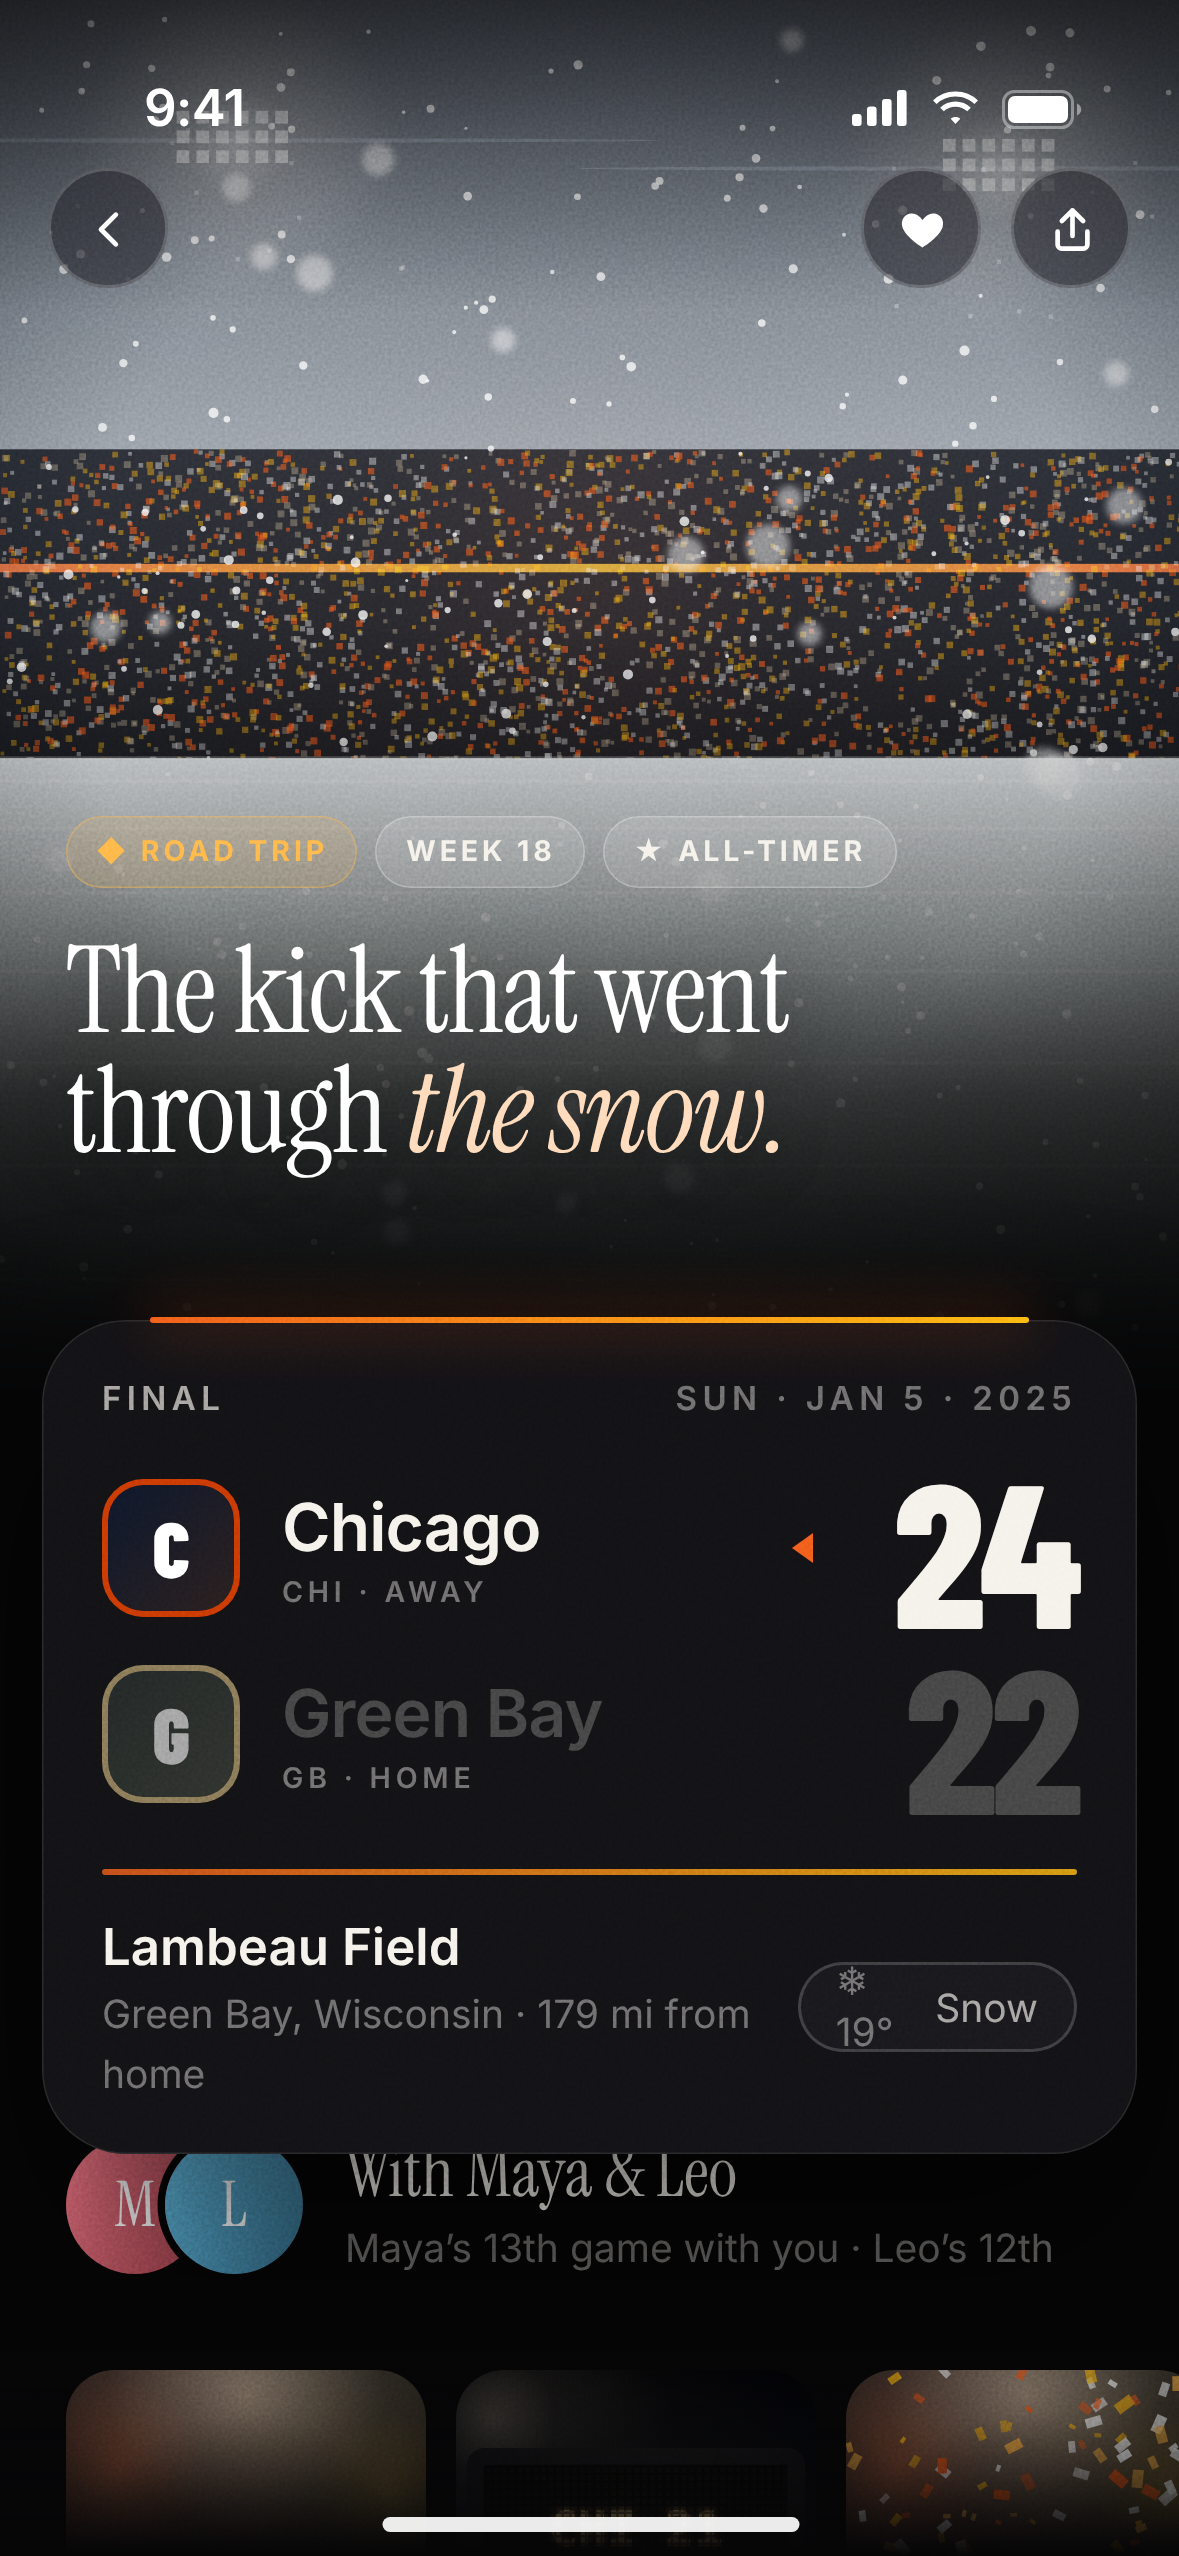
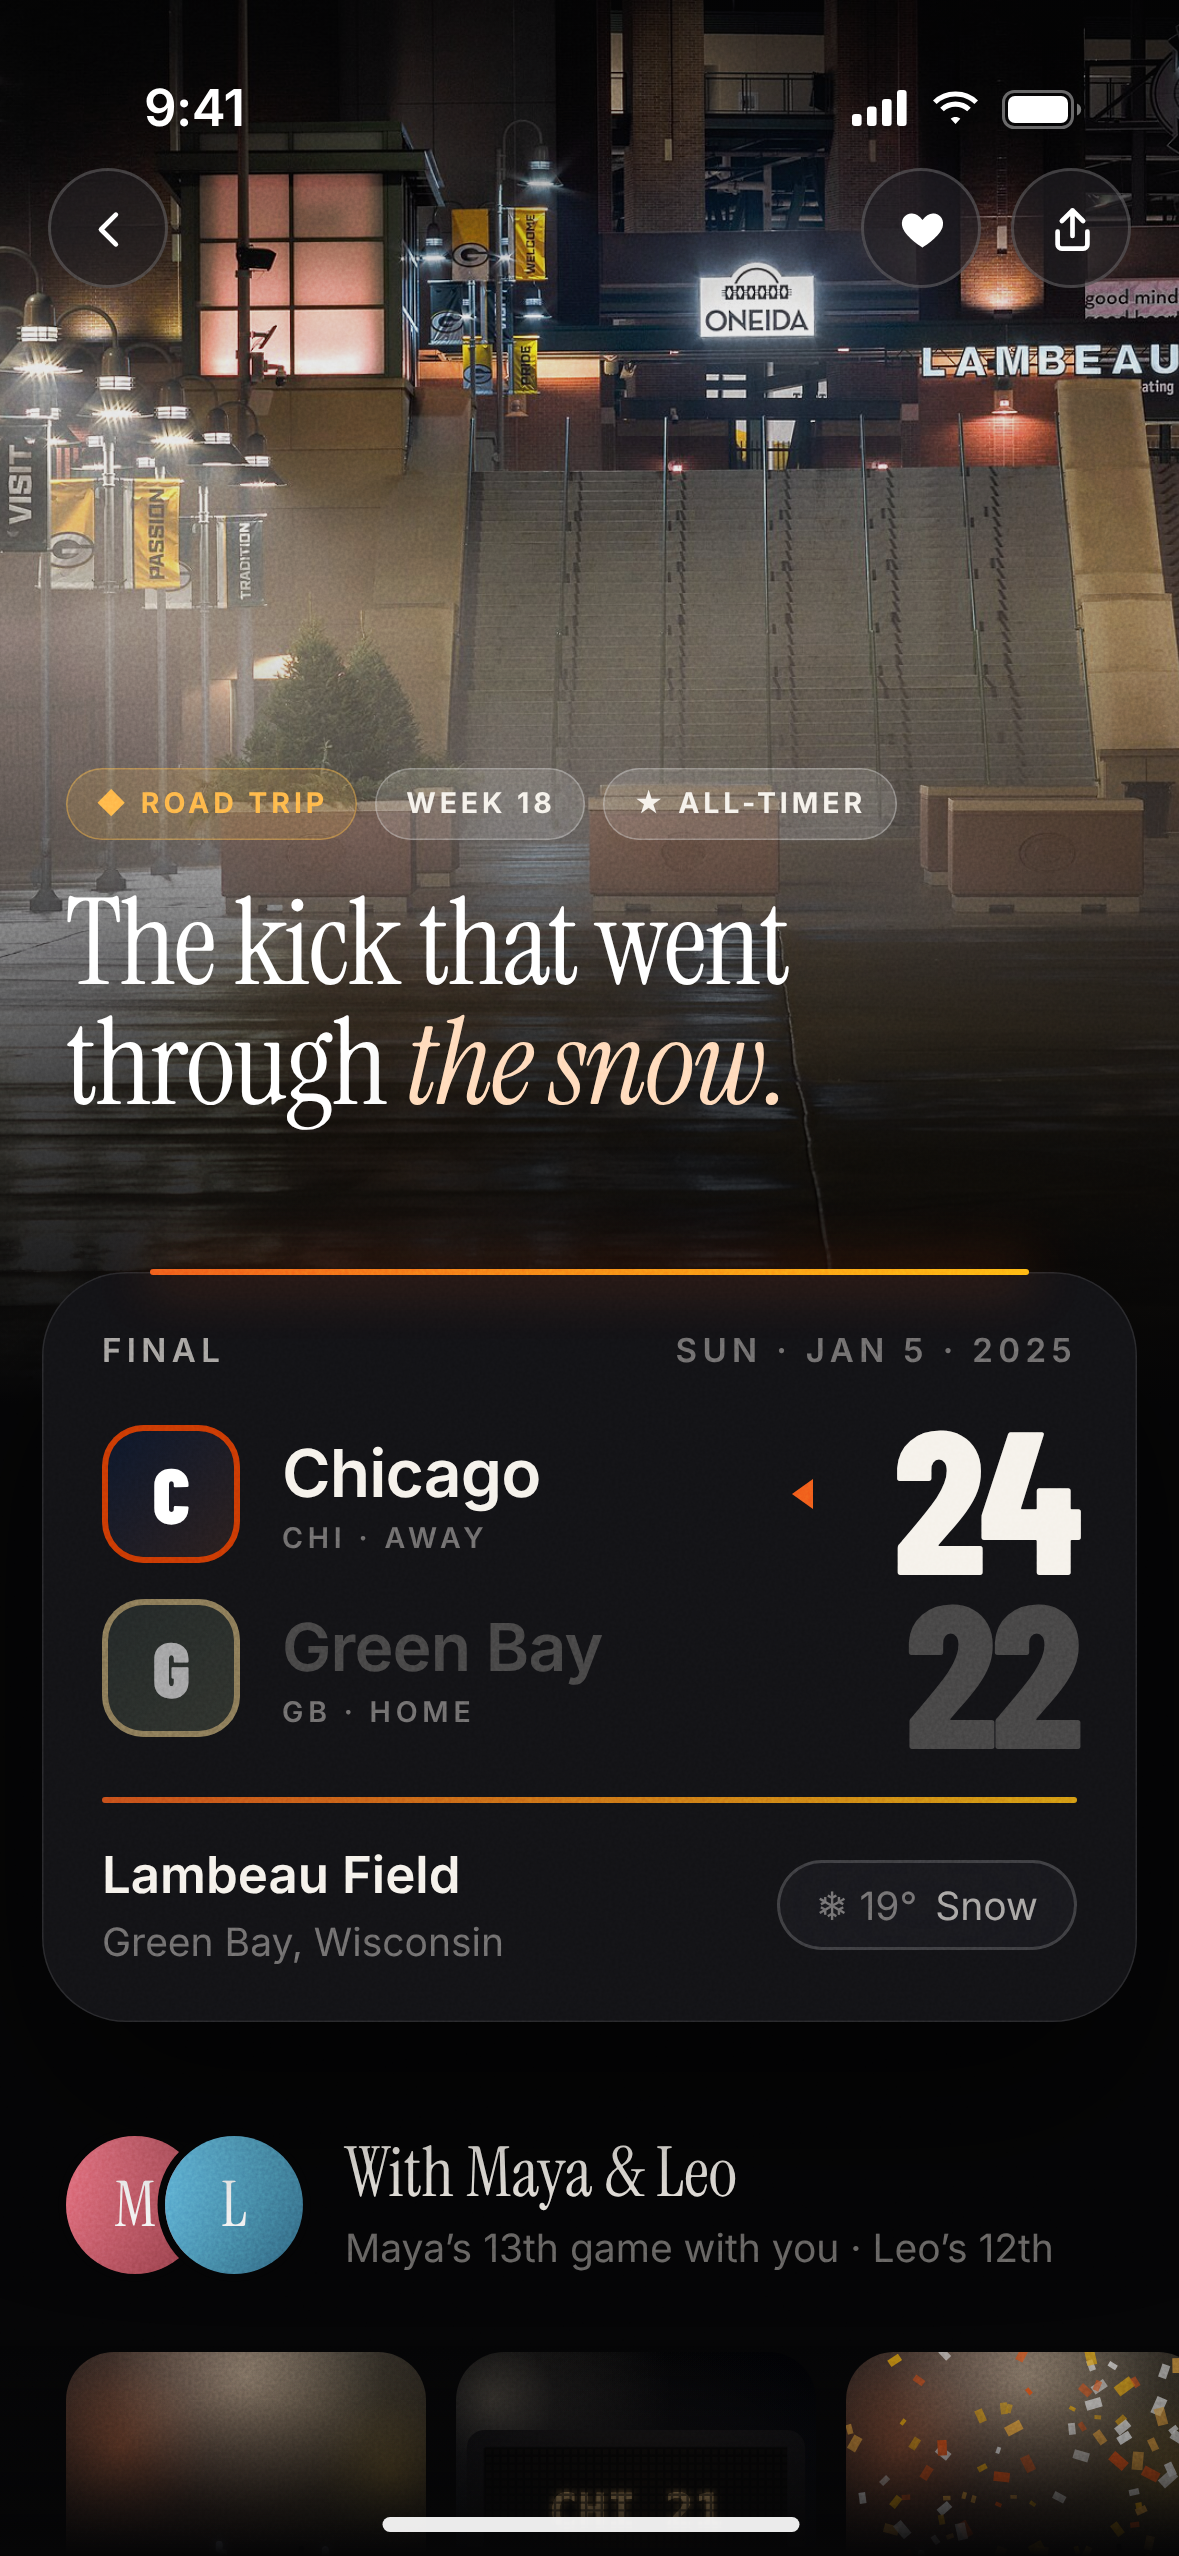
Game memory page: five rendered mockup variations
Claude-Session: https://claude.ai/code/session_01YKCsRGYnDsF5Pryete24Wa

diff --git a/mockups/features/05-game-memory/v1-cinematic.html b/mockups/features/05-game-memory/v1-cinematic.html
@@ -7,7 +7,7 @@
     background: linear-gradient(180deg, rgba(5,5,6,.55) 0%, rgba(5,5,6,0) 22%, rgba(5,5,6,0) 45%, rgba(5,5,6,.75) 78%, #050506 100%); }
   .topbar { position: absolute; top: 56px; left: 16px; right: 16px; display: flex; justify-content: space-between; z-index: 5; }
   .topbar .right { display: flex; gap: 10px; }
-  .caption { position: absolute; left: 22px; right: 22px; top: 272px; z-index: 4; }
+  .caption { position: absolute; left: 22px; right: 22px; top: 256px; z-index: 4; }
   .pills { display: flex; gap: 6px; margin-bottom: 14px; }
   .pill { height: 24px; padding: 0 10px; border-radius: 12px; display: inline-flex; align-items: center; gap: 5px;
     font: 700 9.5px/1 var(--f-ui); letter-spacing: 1.3px; text-transform: uppercase; }
@@ -16,13 +16,13 @@
   h1 { font: 400 40px/1.0 var(--f-serif); letter-spacing: -.6px; color: #fff; text-shadow: 0 2px 24px rgba(0,0,0,.45); }
   h1 em { font-style: italic; color: #ffd9b8; }
 
-  .card { position: absolute; left: 14px; right: 14px; top: 440px; z-index: 6; padding: 20px 20px 18px;
+  .card { position: absolute; left: 14px; right: 14px; top: 424px; z-index: 6; padding: 20px 20px 18px;
     background: #121215; border-radius: 28px; box-shadow: inset 0 0 0 .5px rgba(255,255,255,.09), 0 30px 60px rgba(0,0,0,.6); }
   .card::before { content: ""; position: absolute; left: 36px; right: 36px; top: -1px; height: 1.5px;
     background: linear-gradient(90deg, var(--chi-bears), var(--gb)); box-shadow: 0 0 18px rgba(240,90,26,.9); border-radius: 2px; }
   .meta { display: flex; justify-content: space-between; margin-bottom: 12px; }
   .meta .final { color: var(--text-2); }
-  .row { display: flex; align-items: center; height: 62px; }
+  .row { display: flex; align-items: center; height: 58px; }
   .row .mono-badge { width: 46px; height: 46px; font-size: 26px; margin-right: 14px; }
   .row .name { flex: 1; }
   .row .city { font: 600 22px/1.1 var(--f-ui); letter-spacing: -.3px; }
@@ -38,18 +38,18 @@
   .chip { height: 30px; padding: 0 12px; border-radius: 15px; display: inline-flex; align-items: center; gap: 6px; font: 500 12px/1 var(--f-ui); }
   .chip i { font-style: normal; color: var(--text-2); }
 
-  .with { position: absolute; left: 22px; right: 22px; top: 700px; display: flex; align-items: center; gap: 14px; }
+  .with { position: absolute; left: 22px; right: 22px; top: 712px; display: flex; align-items: center; gap: 14px; }
   .avs { display: flex; }
   .av { width: 46px; height: 46px; border-radius: 50%; display: grid; place-items: center; font: 400 21px/1 var(--f-serif); color: #fff; box-shadow: 0 0 0 2.5px var(--ink); }
   .av + .av { margin-left: -13px; }
   .with .t1 { font: 400 23px/1.1 var(--f-serif); }
   .with .t2 { font: 400 13px/1.3 var(--f-ui); color: var(--text-3); margin-top: 3px; }
-  .strip { position: absolute; left: 22px; top: 776px; display: flex; gap: 10px; }
+  .strip { position: absolute; left: 22px; top: 784px; display: flex; gap: 10px; }
   .strip .ph { width: 120px; height: 160px; border-radius: 16px; overflow: hidden; }
   .fade { position: absolute; left: 0; right: 0; bottom: 0; height: 70px; background: linear-gradient(transparent, var(--ink)); z-index: 8; }
 </style></head>
 <body class="phone">
-  <div class="hero"><img class="ph graded" src="../../photos/lambeau-snow.jpg"></div>
+  <div class="hero"><img class="ph graded" src="../../photos/lambeau-concourse.jpg"></div>
   <div class="grain"></div>
 
   <div class="topbar">

diff --git a/mockups/features/05-game-memory/v4-scoreboard.html b/mockups/features/05-game-memory/v4-scoreboard.html
@@ -19,7 +19,7 @@
   .board .r:last-of-type { border-bottom: 0; }
   .board .team { display: flex; align-items: center; gap: 10px; }
   .board .chip { width: 8px; height: 40px; border-radius: 2px; }
-  .board .tm { font: 800 34px/1 var(--f-cond); letter-spacing: .5px; text-align: left !important; color: #fff; }
+  .board .tm { white-space: nowrap; font: 800 30px/1 var(--f-cond); letter-spacing: .5px; text-align: left !important; color: #fff; }
   .board .q { font-size: 17px; }
   .board .tot { font-size: 46px; }
   .board .r.l .tm { color: rgba(255,255,255,.4); }
@@ -46,7 +46,7 @@
   .stat.hot b { color: var(--signal); }
 
   .ticker { position: absolute; left: 0; right: 0; top: 700px; height: 34px; background: #f05a1a; display: flex; align-items: center; overflow: hidden; }
-  .ticker .lab { background: #0b162a; height: 100%; padding: 0 12px; display: grid; place-items: center; font: 800 12px/1 var(--f-cond); letter-spacing: 2px; color: #fff; }
+  .ticker .lab { white-space: nowrap; background: #0b162a; height: 100%; padding: 0 12px; display: grid; place-items: center; font: 800 12px/1 var(--f-cond); letter-spacing: 2px; color: #fff; }
   .ticker .run { white-space: nowrap; font: 700 13px/1 var(--f-cond); letter-spacing: 1.2px; color: #fff; padding-left: 12px; text-transform: uppercase; }
 
   .with { position: absolute; left: 22px; right: 22px; top: 752px; display: flex; align-items: center; justify-content: space-between; }
@@ -78,7 +78,7 @@
   </div>
 
   <div class="video">
-    <img class="ph graded" src="../../photos/lambeau-snow.jpg">
+    <img class="ph graded" src="../../photos/lambeau-concourse.jpg">
     <div class="rep">YOUR REPLAY · 3:58 PM</div>
     <div class="lower"><div class="tag">0:00</div><div class="txt"><b>51-yard walk-off field goal</b><span>Shot from Section 112 · 40 seconds after the kick</span></div></div>
   </div>

diff --git a/mockups/png/05-game-memory/_sheet.html b/mockups/png/05-game-memory/_sheet.html
@@ -1,0 +1,16 @@
+<html><head><link rel="stylesheet" href="file:///home/user/SportsApp/mockups/kit/kit.css"><style>
+      html,body{width:auto;height:auto;overflow:visible;background:#0b0b0d;color:#f5f1ea;font-family:Inter,sans-serif}
+      body{padding:64px 72px 72px}
+      h1{font:400 64px/1 'Instrument Serif',serif;letter-spacing:-1px;margin-bottom:10px}
+      p{font:500 18px/1.4 Inter;color:rgba(245,241,234,.55);margin-bottom:40px;max-width:1400px}
+      .row{display:flex;gap:36px}
+      figure{width:393px}
+      img{width:393px;height:852px;border-radius:44px;display:block;box-shadow:0 0 0 1px rgba(255,255,255,.1),0 30px 60px rgba(0,0,0,.6)}
+      figcaption{margin-top:18px;font:500 17px/1.3 Inter;color:rgba(245,241,234,.8)}
+      figcaption b{color:#ffb547;margin-right:6px}
+    </style></head><body><h1>05 · Game memory page</h1><p>The detail page for one game: Chicago 24, Green Bay 22 at Lambeau Field, Jan 5, 2025, with Maya and Leo. Five directions for the same content.</p><div class="row">
+      <figure><img src="file:///home/user/SportsApp/mockups/png/05-game-memory/v1-cinematic.png"><figcaption><b>01</b> Cinematic</figcaption></figure>
+      <figure><img src="file:///home/user/SportsApp/mockups/png/05-game-memory/v2-front-page.png"><figcaption><b>02</b> Front page</figcaption></figure>
+      <figure><img src="file:///home/user/SportsApp/mockups/png/05-game-memory/v3-scrapbook.png"><figcaption><b>03</b> Scrapbook</figcaption></figure>
+      <figure><img src="file:///home/user/SportsApp/mockups/png/05-game-memory/v4-scoreboard.png"><figcaption><b>04</b> Scoreboard</figcaption></figure>
+      <figure><img src="file:///home/user/SportsApp/mockups/png/05-game-memory/v5-museum.png"><figcaption><b>05</b> Museum card</figcaption></figure></div></body></html>

diff --git a/mockups/features/05-game-memory/v3-scrapbook.html b/mockups/features/05-game-memory/v3-scrapbook.html
@@ -65,7 +65,7 @@
     <div class="btn-circle"><svg viewBox="0 0 24 24"><path d="M12 3v12M7 8l5-5 5 5M5 13v6a2 2 0 0 0 2 2h10a2 2 0 0 0 2-2v-6"/></svg></div>
   </div>
 
-  <div class="polaroid p1"><div class="img"><img class="ph" src="../../photos/lambeau-snow.jpg" style="filter:saturate(.85) contrast(1.05) sepia(.08)"></div>
+  <div class="polaroid p1"><div class="img"><img class="ph" src="../../photos/lambeau-concourse.jpg" style="filter:saturate(.85) contrast(1.05) sepia(.08)"></div>
     <div class="cap">kickoff in the snow ❄</div></div>
   <div class="tape" style="left:94px;top:100px;transform:rotate(-8deg);z-index:9"></div>
 
@@ -73,7 +73,7 @@
     <div class="cap">M + L, frozen</div></div>
   <div class="tape" style="left:250px;top:204px;width:70px;transform:rotate(14deg);z-index:9"></div>
 
-  <div class="stamp"><div>Final · Away W<big>24–22</big>Walk-off FG</div></div>
+  <div class="stamp"><div>Final<big>24–22</big>Walk-off</div></div>
 
   <div class="ticket">
     <div class="band"></div>
@@ -87,7 +87,7 @@
     <div class="stub"><span>No. 0105-2025</span></div>
   </div>
 
-  <div class="polaroid p3"><div class="img"><img class="ph" src="../../photos/stadium-lights.jpg" style="filter:saturate(.85) sepia(.06)"></div>
+  <div class="polaroid p3"><div class="img"><canvas class="photo" data-style="celebration" data-seed="9" data-accent="#f05a1a" data-secondary="#ffb612"></canvas></div>
     <div class="cap">0:00. it’s GOOD</div></div>
   <div class="tape" style="left:238px;top:462px;width:64px;transform:rotate(-6deg);z-index:9"></div>
 

diff --git a/mockups/features/05-game-memory/v5-museum.html b/mockups/features/05-game-memory/v5-museum.html
@@ -49,7 +49,7 @@
     <div class="ico"><svg viewBox="0 0 24 24"><circle cx="5" cy="12" r="1.2"/><circle cx="12" cy="12" r="1.2"/><circle cx="19" cy="12" r="1.2"/></svg></div>
   </div>
 
-  <div class="frame"><div class="mat"><div class="img"><img class="ph" src="../../photos/lambeau-snow.jpg"></div></div></div>
+  <div class="frame"><div class="mat"><div class="img"><img class="ph" src="../../photos/lambeau-concourse.jpg"></div></div></div>
   <div class="shadow"></div>
 
   <div class="placard">

diff --git a/mockups/features/05-game-memory/v2-front-page.html b/mockups/features/05-game-memory/v2-front-page.html
@@ -50,7 +50,7 @@
     <h1>Chicago 24<br>Green Bay 22</h1>
     <div class="deck">A 51-yard kick, a frozen crowd, and a whole visitors’ corner losing it as time expired.</div>
 
-    <div class="photo"><img class="ph" src="../../photos/lambeau-snow.jpg"></div>
+    <div class="photo"><img class="ph" src="../../photos/lambeau-concourse.jpg"></div>
     <div class="credit"><span>FROM SECTION 112, ROW 41 · 3:58 PM</span><span>PHOTO: SAM OKAFOR</span></div>
 
     <div class="cols">

diff --git a/mockups/photos/INDEX.md b/mockups/photos/INDEX.md
@@ -1,0 +1,21 @@
+# Photo index: only use these filenames
+
+| File | What it shows | Good for |
+|---|---|---|
+| wrigley-night.jpg | Wrigley Field at night from the stands, field lit, manual scoreboard and crowd | hero for any Wrigley / baseball night memory |
+| wrigley-night-2.jpg | Wrigley at night, wider, video board left | alt baseball night |
+| wrigley-scoreboard.jpg | Close-up of the green manual scoreboard, inning numbers | scoreboard details, textures |
+| wrigley-scoreboard-wide.jpg | Wrigley center-field scoreboard and clock, daytime, blue sky | venue page, day games |
+| wrigley-bleachers.jpg | Fans in the outfield bleachers at golden hour, field beyond | crowd / "your seat" photos |
+| fenway-night.jpg | Fenway Park at night, light tower, packed stands | road trip, Boston |
+| fenway-day.jpg | Fenway from behind home plate, day game, Green Monster | Boston daytime |
+| fenway-postcard.jpg | Vintage illustrated postcard of Fenway | postcards, vintage/keepsake directions |
+| lambeau-concourse.jpg | Lambeau Field exterior plaza at night, wet ground, lights | Lambeau Jan 2025 game (moody, wintry night) |
+| lambeau-exterior.jpg | Lambeau Field exterior, cloudy day, parking lot | venue / trip shots |
+| soldier-skyline.jpg | Aerial of Soldier Field with Chicago skyline behind | Chicago, home, venue pages |
+| soldier-aerial.jpg | Aerial of Soldier Field bowl | venue / map overlays |
+| soldier-soccer.jpg | A soccer match inside Soldier Field, players small | Chicago Fire games |
+| united-center-court.jpg | United Center interior, basketball court, full arena, center-hung board | Bulls / Blackhawks / arena |
+| camp-nou-aerial.jpg | Aerial of Camp Nou with the city around it | Spain trip, Barcelona |
+
+More may be added later. If nothing fits, use a generative `<canvas class="photo">` from the kit.
